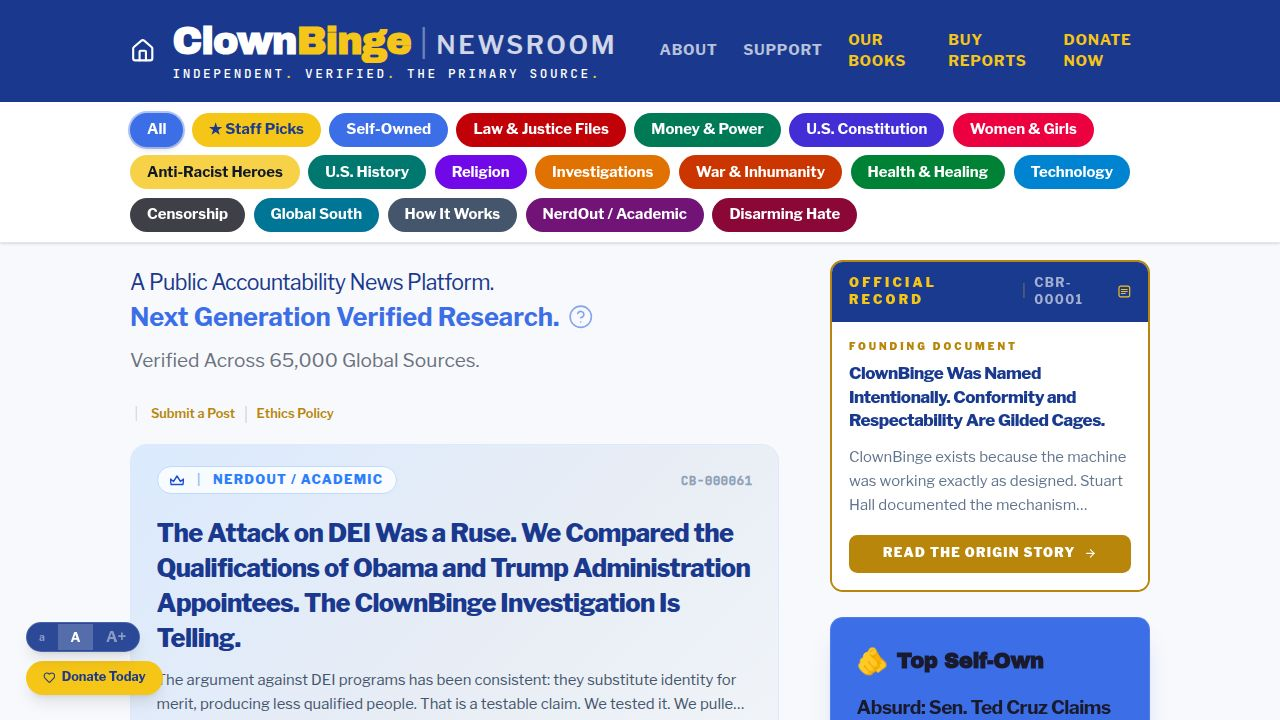
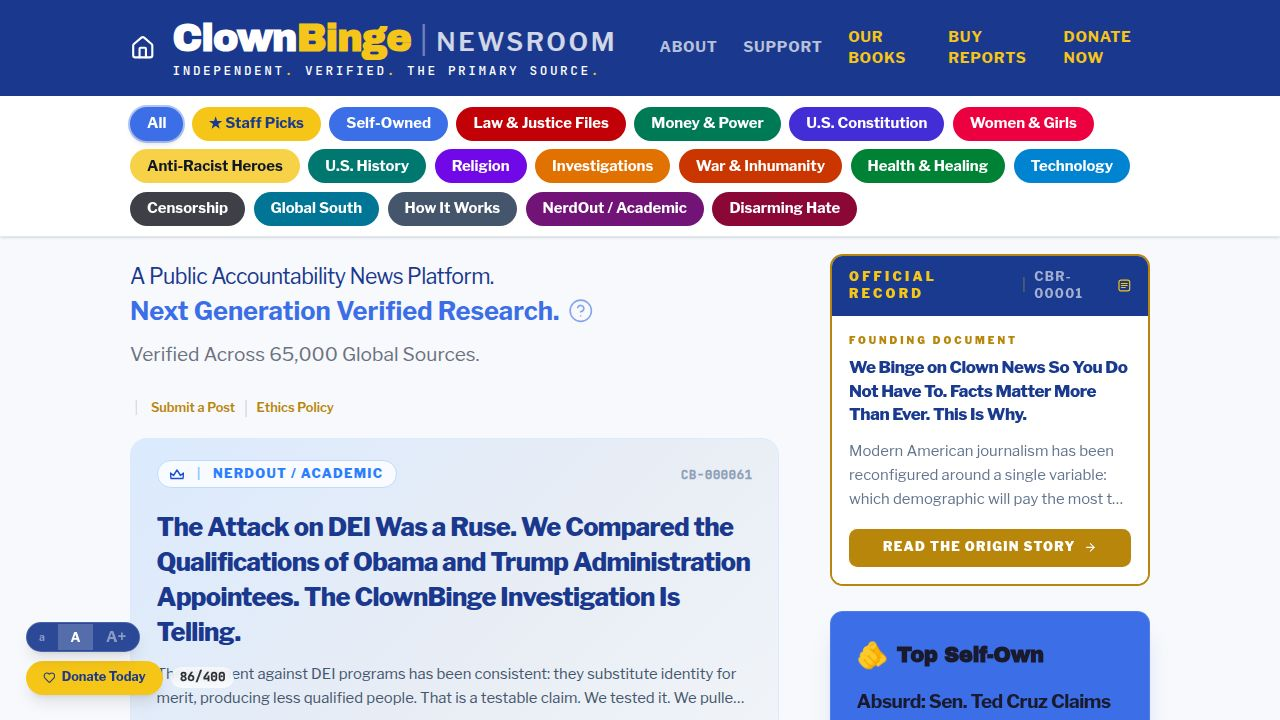
Add article count to the donate button display
Add an article count badge next to the "Donate Today" button in the Layout component, displaying the current count out of 400.

Replit-Commit-Author: Agent
Replit-Commit-Session-Id: 079289bc-95e7-4d6f-a9ac-ed41082a1af2
Replit-Commit-Checkpoint-Type: full_checkpoint
Replit-Commit-Event-Id: f45b97e7-ca49-436b-95e3-ef62eb5ee21e
Replit-Commit-Screenshot-Url: https://storage.googleapis.com/screenshot-production-us-central1/9a7102e6-09b6-4444-9028-00e4858af7ad/079289bc-95e7-4d6f-a9ac-ed41082a1af2/YjMruFI
Replit-Helium-Checkpoint-Created: true

diff --git a/artifacts/clownbinge/src/components/Layout.tsx b/artifacts/clownbinge/src/components/Layout.tsx
@@ -388,20 +388,28 @@ export function Layout({ children, onCategoryChange, activeCategory }: {
             </div>
           </div>
         )}
-        <button
-          onClick={() => setCtaOpen((o) => !o)}
-          className="flex items-center gap-1.5 px-4 py-2 rounded-full font-bold text-xs text-[#1A3A8F] shadow-lg transition-transform active:scale-95"
-          style={{ background: "#F5C518" }}
-        >
-          {ctaOpen ? (
-            "Close"
-          ) : (
-            <>
-              <Heart className="w-3 h-3" />
-              <span>Donate Today</span>
-            </>
-          )}
-        </button>
+        <div className="flex items-center gap-2">
+          <button
+            onClick={() => setCtaOpen((o) => !o)}
+            className="flex items-center gap-1.5 px-4 py-2 rounded-full font-bold text-xs text-[#1A3A8F] shadow-lg transition-transform active:scale-95"
+            style={{ background: "#F5C518" }}
+          >
+            {ctaOpen ? (
+              "Close"
+            ) : (
+              <>
+                <Heart className="w-3 h-3" />
+                <span>Donate Today</span>
+              </>
+            )}
+          </button>
+          <span
+            className="font-mono text-xs font-black tabular-nums leading-none px-2 py-1 rounded-full"
+            style={{ color: "rgba(0,0,0,0.8)", background: "rgba(255,255,255,0.75)", backdropFilter: "blur(4px)" }}
+          >
+            {postCount ?? 0}/400
+          </span>
+        </div>
       </div>
     </div>
   );
